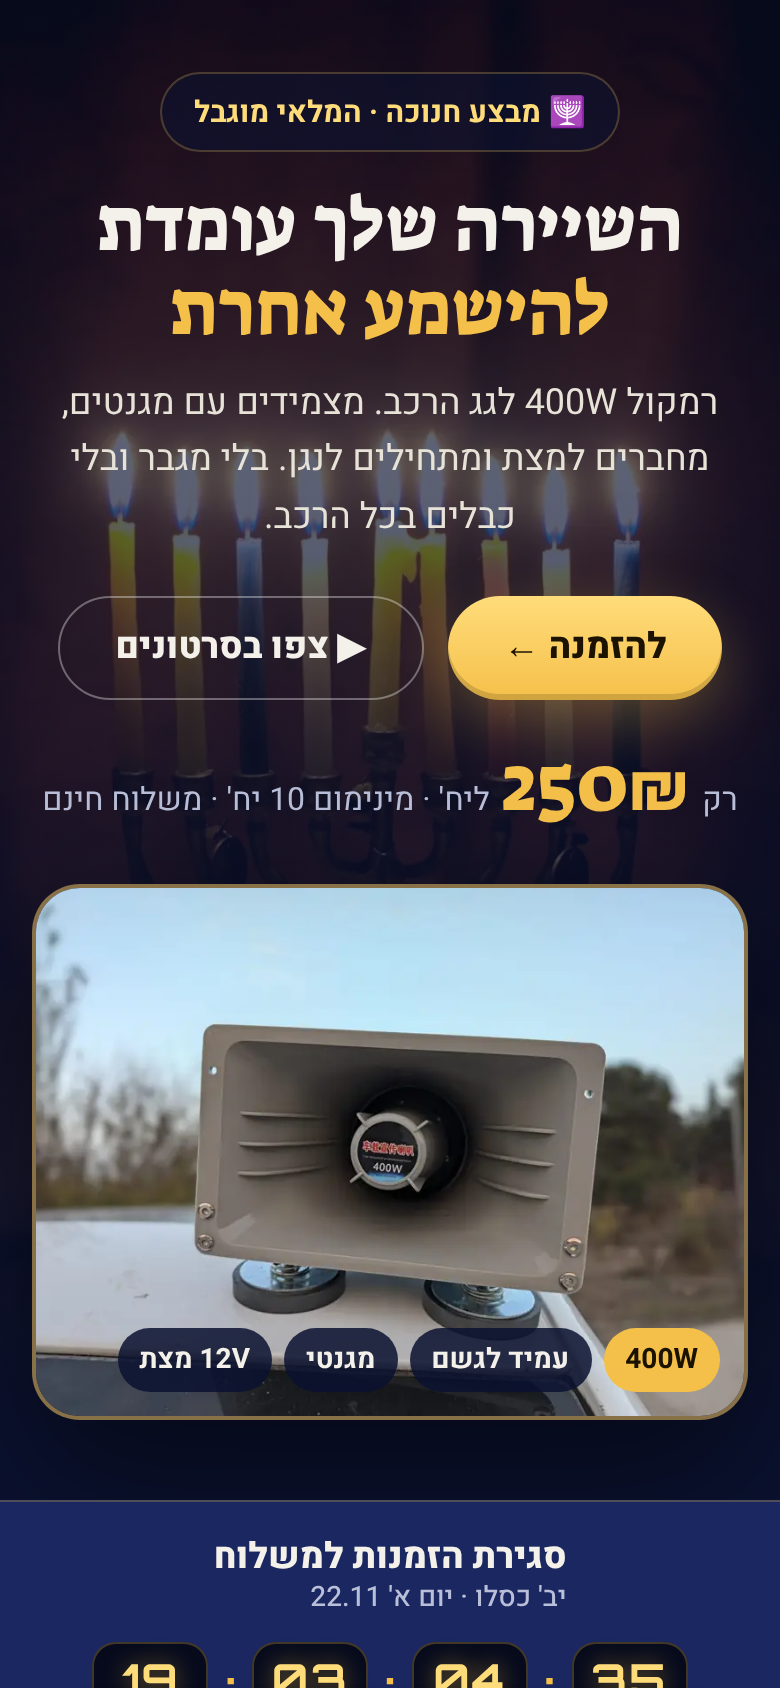
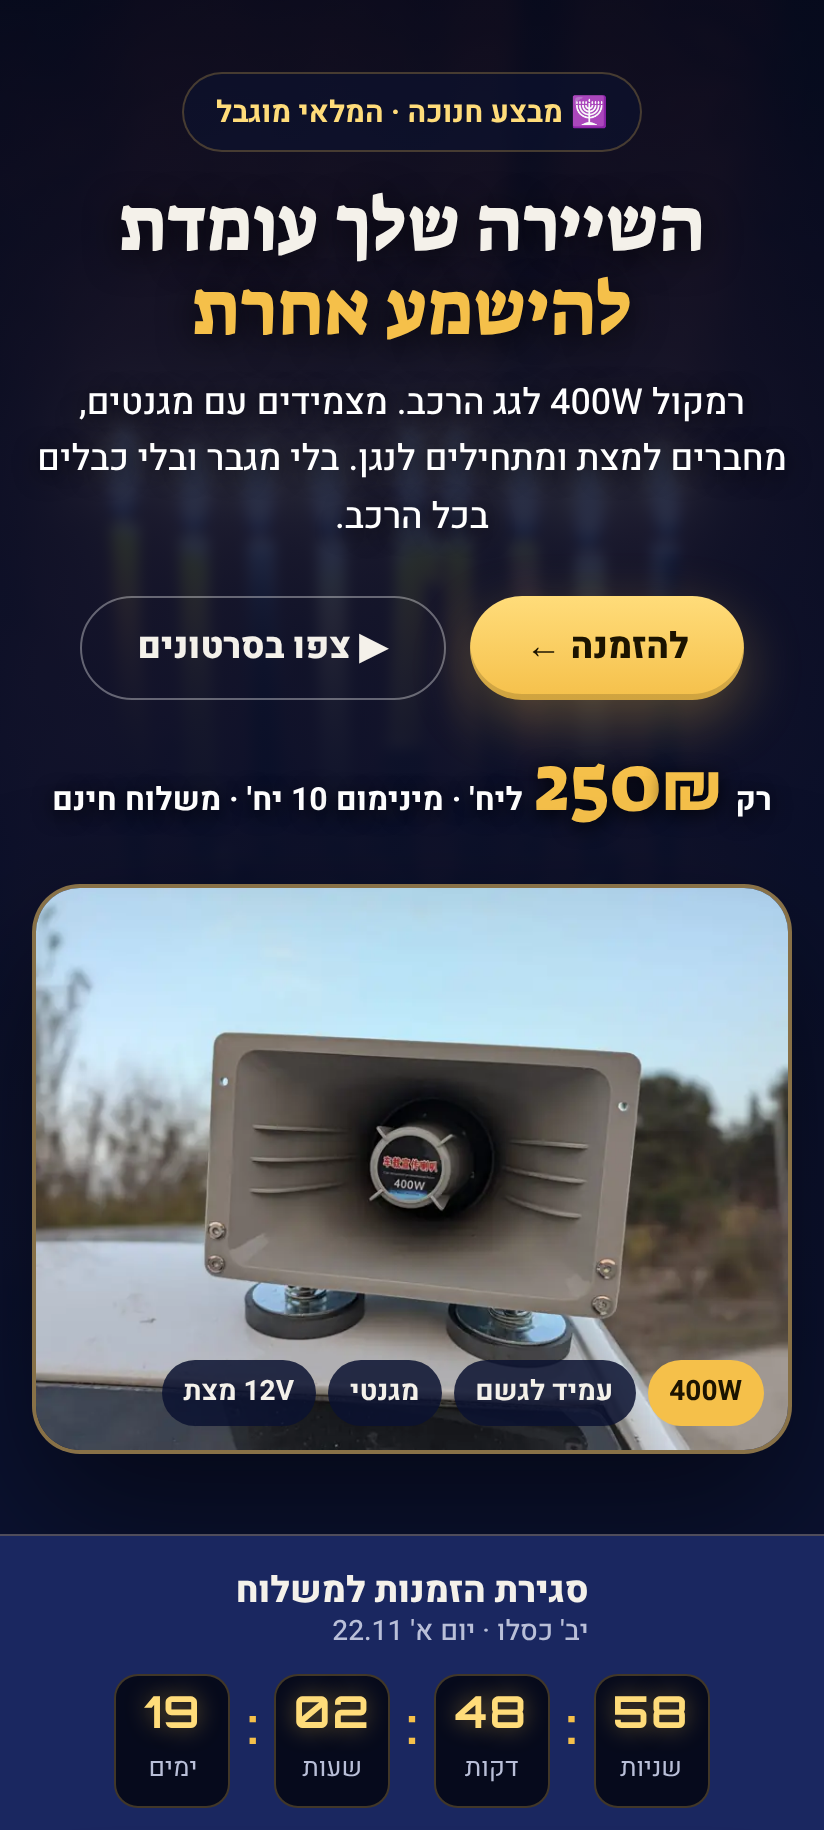
Improve hero text contrast on mobile
Blur and darken the menorah background and add text shadows so the
lead paragraph and price line stay readable over the candles.

Claude-Session: https://claude.ai/code/session_017j4CdpQsbaKqQQkzUaaNoS

diff --git a/index.html b/index.html
@@ -69,17 +69,17 @@ a{color:var(--gold-2)}
 
 /* ---------- HERO ---------- */
 .hero{position:relative;isolation:isolate;overflow:hidden}
-.hero__bg{position:absolute;inset:0;z-index:-2;width:100%;height:100%;object-fit:cover;object-position:center 40%}
+.hero__bg{position:absolute;inset:0;z-index:-2;width:100%;height:100%;object-fit:cover;object-position:center 40%;filter:blur(3px) brightness(.55) saturate(.8);transform:scale(1.05)}
 .hero::after{content:"";position:absolute;inset:0;z-index:-1;
-  background:linear-gradient(180deg,rgba(11,18,48,.55) 0%,rgba(11,18,48,.72) 50%,var(--night) 96%)}
+  background:linear-gradient(180deg,rgba(11,18,48,.6) 0%,rgba(11,18,48,.82) 45%,var(--night) 90%)}
 .hero__inner{padding:56px 0 52px;display:grid;grid-template-columns:1.1fr .9fr;gap:40px;align-items:center}
 .pill{display:inline-block;padding:7px 16px;border-radius:999px;background:rgba(11,18,48,.6);border:1px solid var(--line);
   font-weight:700;font-size:15px;color:var(--gold-2)}
-.hero h1{font-size:clamp(38px,4.6vw,62px);line-height:1.1;margin:16px 0 12px}
+.hero h1{font-size:clamp(38px,4.6vw,62px);line-height:1.1;margin:16px 0 12px;text-shadow:0 3px 18px rgba(0,0,0,.8)}
 .hero h1 .glow{color:var(--gold)}
-.lead{font-size:clamp(18px,2.2vw,21px);color:#e7e3d8;margin:0 0 24px;max-width:520px}
+.lead{font-size:clamp(18px,2.2vw,21px);color:#fff;font-weight:500;text-shadow:0 2px 12px rgba(0,0,0,.9);margin:0 0 24px;max-width:520px}
 .hero__cta{display:flex;flex-wrap:wrap;gap:12px}
-.hero__price{margin-top:22px;color:var(--muted);font-size:16px}
+.hero__price{margin-top:22px;color:#fff;font-weight:600;font-size:16px;text-shadow:0 2px 10px rgba(0,0,0,.9)}
 .hero__price b{font-family:"Suez One",serif;font-weight:400;font-size:40px;color:var(--gold);line-height:1;margin-inline:6px}
 .hero__product{margin:0;position:relative;border-radius:24px;overflow:hidden;border:2px solid rgba(245,192,74,.5);
   box-shadow:0 30px 70px rgba(0,0,0,.5);aspect-ratio:4/3;background:#1a2244}

diff --git a/preview/levi-speaker-landing.html b/preview/levi-speaker-landing.html
@@ -61,17 +61,17 @@ a{color:var(--gold-2)}
 
 /* ---------- HERO ---------- */
 .hero{position:relative;isolation:isolate;overflow:hidden}
-.hero__bg{position:absolute;inset:0;z-index:-2;width:100%;height:100%;object-fit:cover;object-position:center 40%}
+.hero__bg{position:absolute;inset:0;z-index:-2;width:100%;height:100%;object-fit:cover;object-position:center 40%;filter:blur(3px) brightness(.55) saturate(.8);transform:scale(1.05)}
 .hero::after{content:"";position:absolute;inset:0;z-index:-1;
-  background:linear-gradient(180deg,rgba(11,18,48,.55) 0%,rgba(11,18,48,.72) 50%,var(--night) 96%)}
+  background:linear-gradient(180deg,rgba(11,18,48,.6) 0%,rgba(11,18,48,.82) 45%,var(--night) 90%)}
 .hero__inner{padding:56px 0 52px;display:grid;grid-template-columns:1.1fr .9fr;gap:40px;align-items:center}
 .pill{display:inline-block;padding:7px 16px;border-radius:999px;background:rgba(11,18,48,.6);border:1px solid var(--line);
   font-weight:700;font-size:15px;color:var(--gold-2)}
-.hero h1{font-size:clamp(38px,4.6vw,62px);line-height:1.1;margin:16px 0 12px}
+.hero h1{font-size:clamp(38px,4.6vw,62px);line-height:1.1;margin:16px 0 12px;text-shadow:0 3px 18px rgba(0,0,0,.8)}
 .hero h1 .glow{color:var(--gold)}
-.lead{font-size:clamp(18px,2.2vw,21px);color:#e7e3d8;margin:0 0 24px;max-width:520px}
+.lead{font-size:clamp(18px,2.2vw,21px);color:#fff;font-weight:500;text-shadow:0 2px 12px rgba(0,0,0,.9);margin:0 0 24px;max-width:520px}
 .hero__cta{display:flex;flex-wrap:wrap;gap:12px}
-.hero__price{margin-top:22px;color:var(--muted);font-size:16px}
+.hero__price{margin-top:22px;color:#fff;font-weight:600;font-size:16px;text-shadow:0 2px 10px rgba(0,0,0,.9)}
 .hero__price b{font-family:"Suez One",serif;font-weight:400;font-size:40px;color:var(--gold);line-height:1;margin-inline:6px}
 .hero__product{margin:0;position:relative;border-radius:24px;overflow:hidden;border:2px solid rgba(245,192,74,.5);
   box-shadow:0 30px 70px rgba(0,0,0,.5);aspect-ratio:4/3;background:#1a2244}
